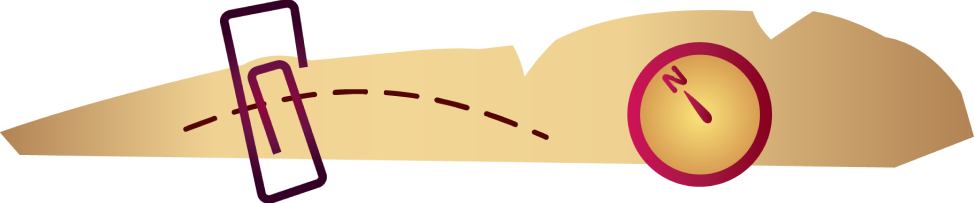
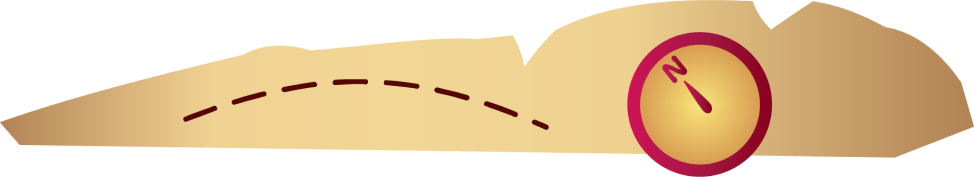
feat: beresin padding mobile

diff --git a/src/pages/(auth)/profile.tsx b/src/pages/(auth)/profile.tsx
@@ -1,12 +1,4 @@
-import {
-  Stack,
-  Image,
-  Text,
-  Input,
-  Button,
-  Heading,
-  Box,
-} from "@chakra-ui/react";
+import { Stack, Image, Text, Input, Button, Heading } from "@chakra-ui/react";
 import { Link } from "react-router-dom";
 
 const Profile = () => {
@@ -23,9 +15,10 @@ const Profile = () => {
       minH={"100vh"}
       justify={"center"}
       align={"center"}
-      padding={{ base: "1rem", lg: "5rem" }}
+      padding={{ base: "1rem", sm: "2rem", lg: "5rem" }}
       pb={{ base: "0rem", lg: "5rem" }}
       pos={"relative"}
+      paddingY={{ base: "3rem", lg: "0" }}
     >
       {/* START Back button */}
       <Stack w={"90%"} zIndex={"10000"}>
@@ -33,7 +26,7 @@ const Profile = () => {
           <Link to={"/home"}>
             <Image
               src="/icons/back-icon.png"
-              w={{ base: "3rem", lg: "5rem" }}
+              w={{ base: "3rem", md: "4rem", lg: "5rem" }}
               transition={"all 0.2s ease-in-out"}
               _hover={{ w: "4.5rem", transformOrigin: "center" }}
             />
@@ -59,18 +52,39 @@ const Profile = () => {
       <Image
         src="/bg/profile-bottom-desktop.png"
         pos={"absolute"}
+        display={{ base: "none", lg: "block" }}
         zIndex={"100"}
-        bottom={"4rem"}
-        w={"75vw"}
+        bottom={{ lg: "2rem" }}
+        w={{ lg: "70vw" }}
+        h={{ lg: "85vh" }}
       />
       <Image
         src="/bg/profile-top-desktop.png"
         pos={"absolute"}
+        display={{ base: "none", lg: "block" }}
         zIndex={"100"}
-        top={"9rem"}
-        right={"15rem"}
-        w={"50vw"}
+        top={{ lg: "6rem" }}
+        right={{ lg: "15rem" }}
+        w={{ lg: "50vw" }}
       />
+      {/* <Image
+        src="/bg/pen-holder.png"
+        pos={"absolute"}
+        display={{ base: "none", lg: "block" }}
+        zIndex={"10000"}
+        top={{ lg: "6.375rem" }}
+        left={{ lg: "24.5rem" }}
+        w={{ lg: "1vw" }}
+      /> */}
+      {/* <Image
+        src="/bg/clip.png"
+        pos={"absolute"}
+        display={{ base: "none", lg: "block" }}
+        zIndex={{ lg: "10000" }}
+        top={{ lg: "4.95rem" }}
+        right={{ lg: "50.75rem" }}
+        w={{ lg: "5.1vw" }}
+      /> */}
       {/* END bg prop */}
 
       {/* START bg atas desktop */}
